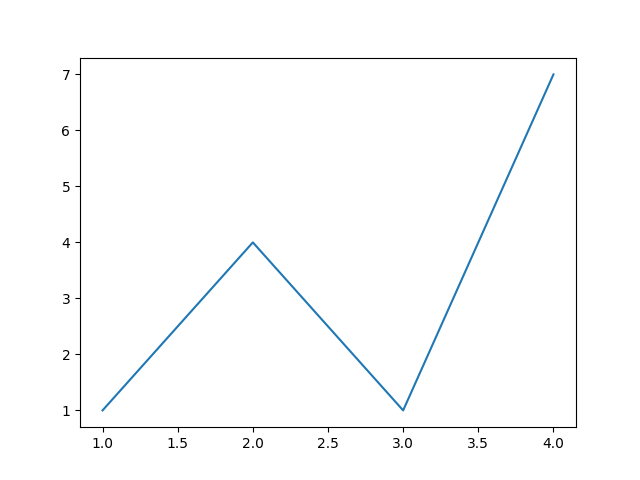
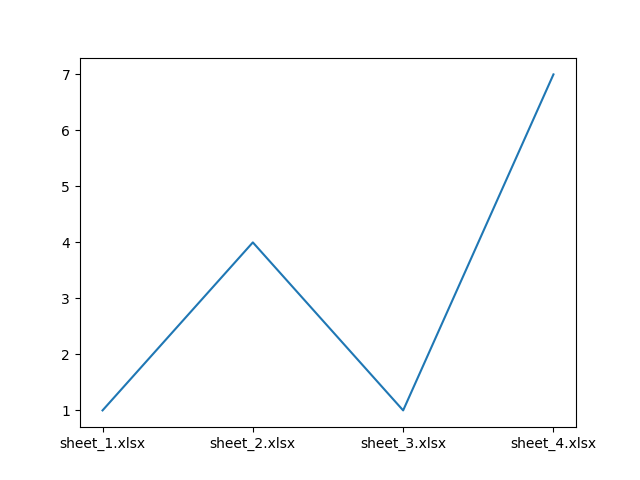
Updated pandas

diff --git a/pandasGraph.py b/pandasGraph.py
@@ -3,6 +3,8 @@ import sys
 import os
 from openpyxl import load_workbook
 from openpyxl.utils.cell import coordinate_from_string
+import pandas as pd
+
 
 import matplotlib.pyplot as mpl
 from pathlib import Path
@@ -14,6 +16,18 @@ fileList = sys.argv[3:] #slice of srd index over (list of file directories)
 #xlfiles = Path(folderPath).iterdir()
 
 #if last char of folderPath is /, change nothing, otherwise append it to end
+
+#Convert the column letter to a number. 
+#A -> 1
+#AA -> 27
+def column_letter_to_number(col):
+    col = col.upper()
+    result = 0
+    for char in col:
+        result = result * 26 + (ord(char) - ord('A') + 1)
+    return result
+
+
 try:
     coordinate_from_string(cellNum)
 except Exception:
@@ -25,7 +39,7 @@ stringCells = 0
 errorCells = 0
 figure, axes = mpl.subplots()
 values = []
-indices = []
+x_names = []
 
     #for xlfile in sorted(list(xlfiles)):
 
@@ -34,33 +48,35 @@ def grabCell(xlfile):
     global emptyCells
     global stringCells
     global errorCells
-    currentFile = load_workbook(filename = (xlfile), data_only = True)
-    currentFile = currentFile.active
+    #currentFile = load_workbook(filename = (xlfile), data_only = True)
+    #currentFile = currentFile.active 
+    
+    
+    currentFile = pd.read_excel(xlfile, sheet_name=0, header=None) #Creates a pandas DataFrame
+    #cellNum[0] 'A', the column.
+    #cellNum[1] '1', the row
+    #iloc[row,col]
+    col_letters, row = coordinate_from_string(cellNum)
+    row_index = row - 1
+    col_index = column_letter_to_number(col_letters) - 1
+    print(f"Row: {row_index} Col: {col_index}")
 
- 
-    cellValue = currentFile[cellNum].value
-   
-    if(currentFile[cellNum].data_type == 'e'):
-        print("this cell has an error!")
-        errorCells += 1
-        return
-    if(currentFile[cellNum].data_type == 'f'):
-        print("this cell is a formula")
-        return
+    cellValue = currentFile.iat[row_index, col_index]
+    print(cellValue)
     if(cellValue == None):
         print(f"Cell {cellNum} in file {xlfile} is empty")
         emptyCells += 1
         return
+
     if(isinstance(cellValue,str)):
-        print(f"File {xlfile} contains string data")
+        print(f"File {xlfile} contains string data OR an error code!")
         #print(currentFile[cellNum].data_type)
         stringCells += 1
         return
     
     if(isinstance(cellValue,int) or isinstance(cellValue,float)):
         values.append(cellValue) #access the single chosen cell per file
-        index += 1
-        indices.append(index) #x-axis is 0, 1, 2, etc.
+        x_names.append(os.path.basename(xlfile))
     else:
         return
     
@@ -103,9 +119,9 @@ def fileLoop(fileList):
 
 fileLoop(fileList)
        
-print(indices)
+print(x_names)
 print(f"Values: {values}")
-axes.plot(indices,values)  
+axes.plot(x_names,values)  
 print("generating plot")
 mpl.savefig(imageName + ".png")
 print("plot generated")

diff --git a/README.md b/README.md
@@ -1,3 +1,9 @@
 # pyGraph
 This is a python script that graphs a singular cell across multiple excel files. This script can be run from the terminal, with information passed in as command line arguments. It can recursively scan a directory, looking for usable excel files.
 
+This script utilizes Pandas, a popular data analysis and manipulation library for Python. 
+Dependencies:
+* matplotlib
+* pandas
+* openpyxl (If using xlGraph.py)
+
